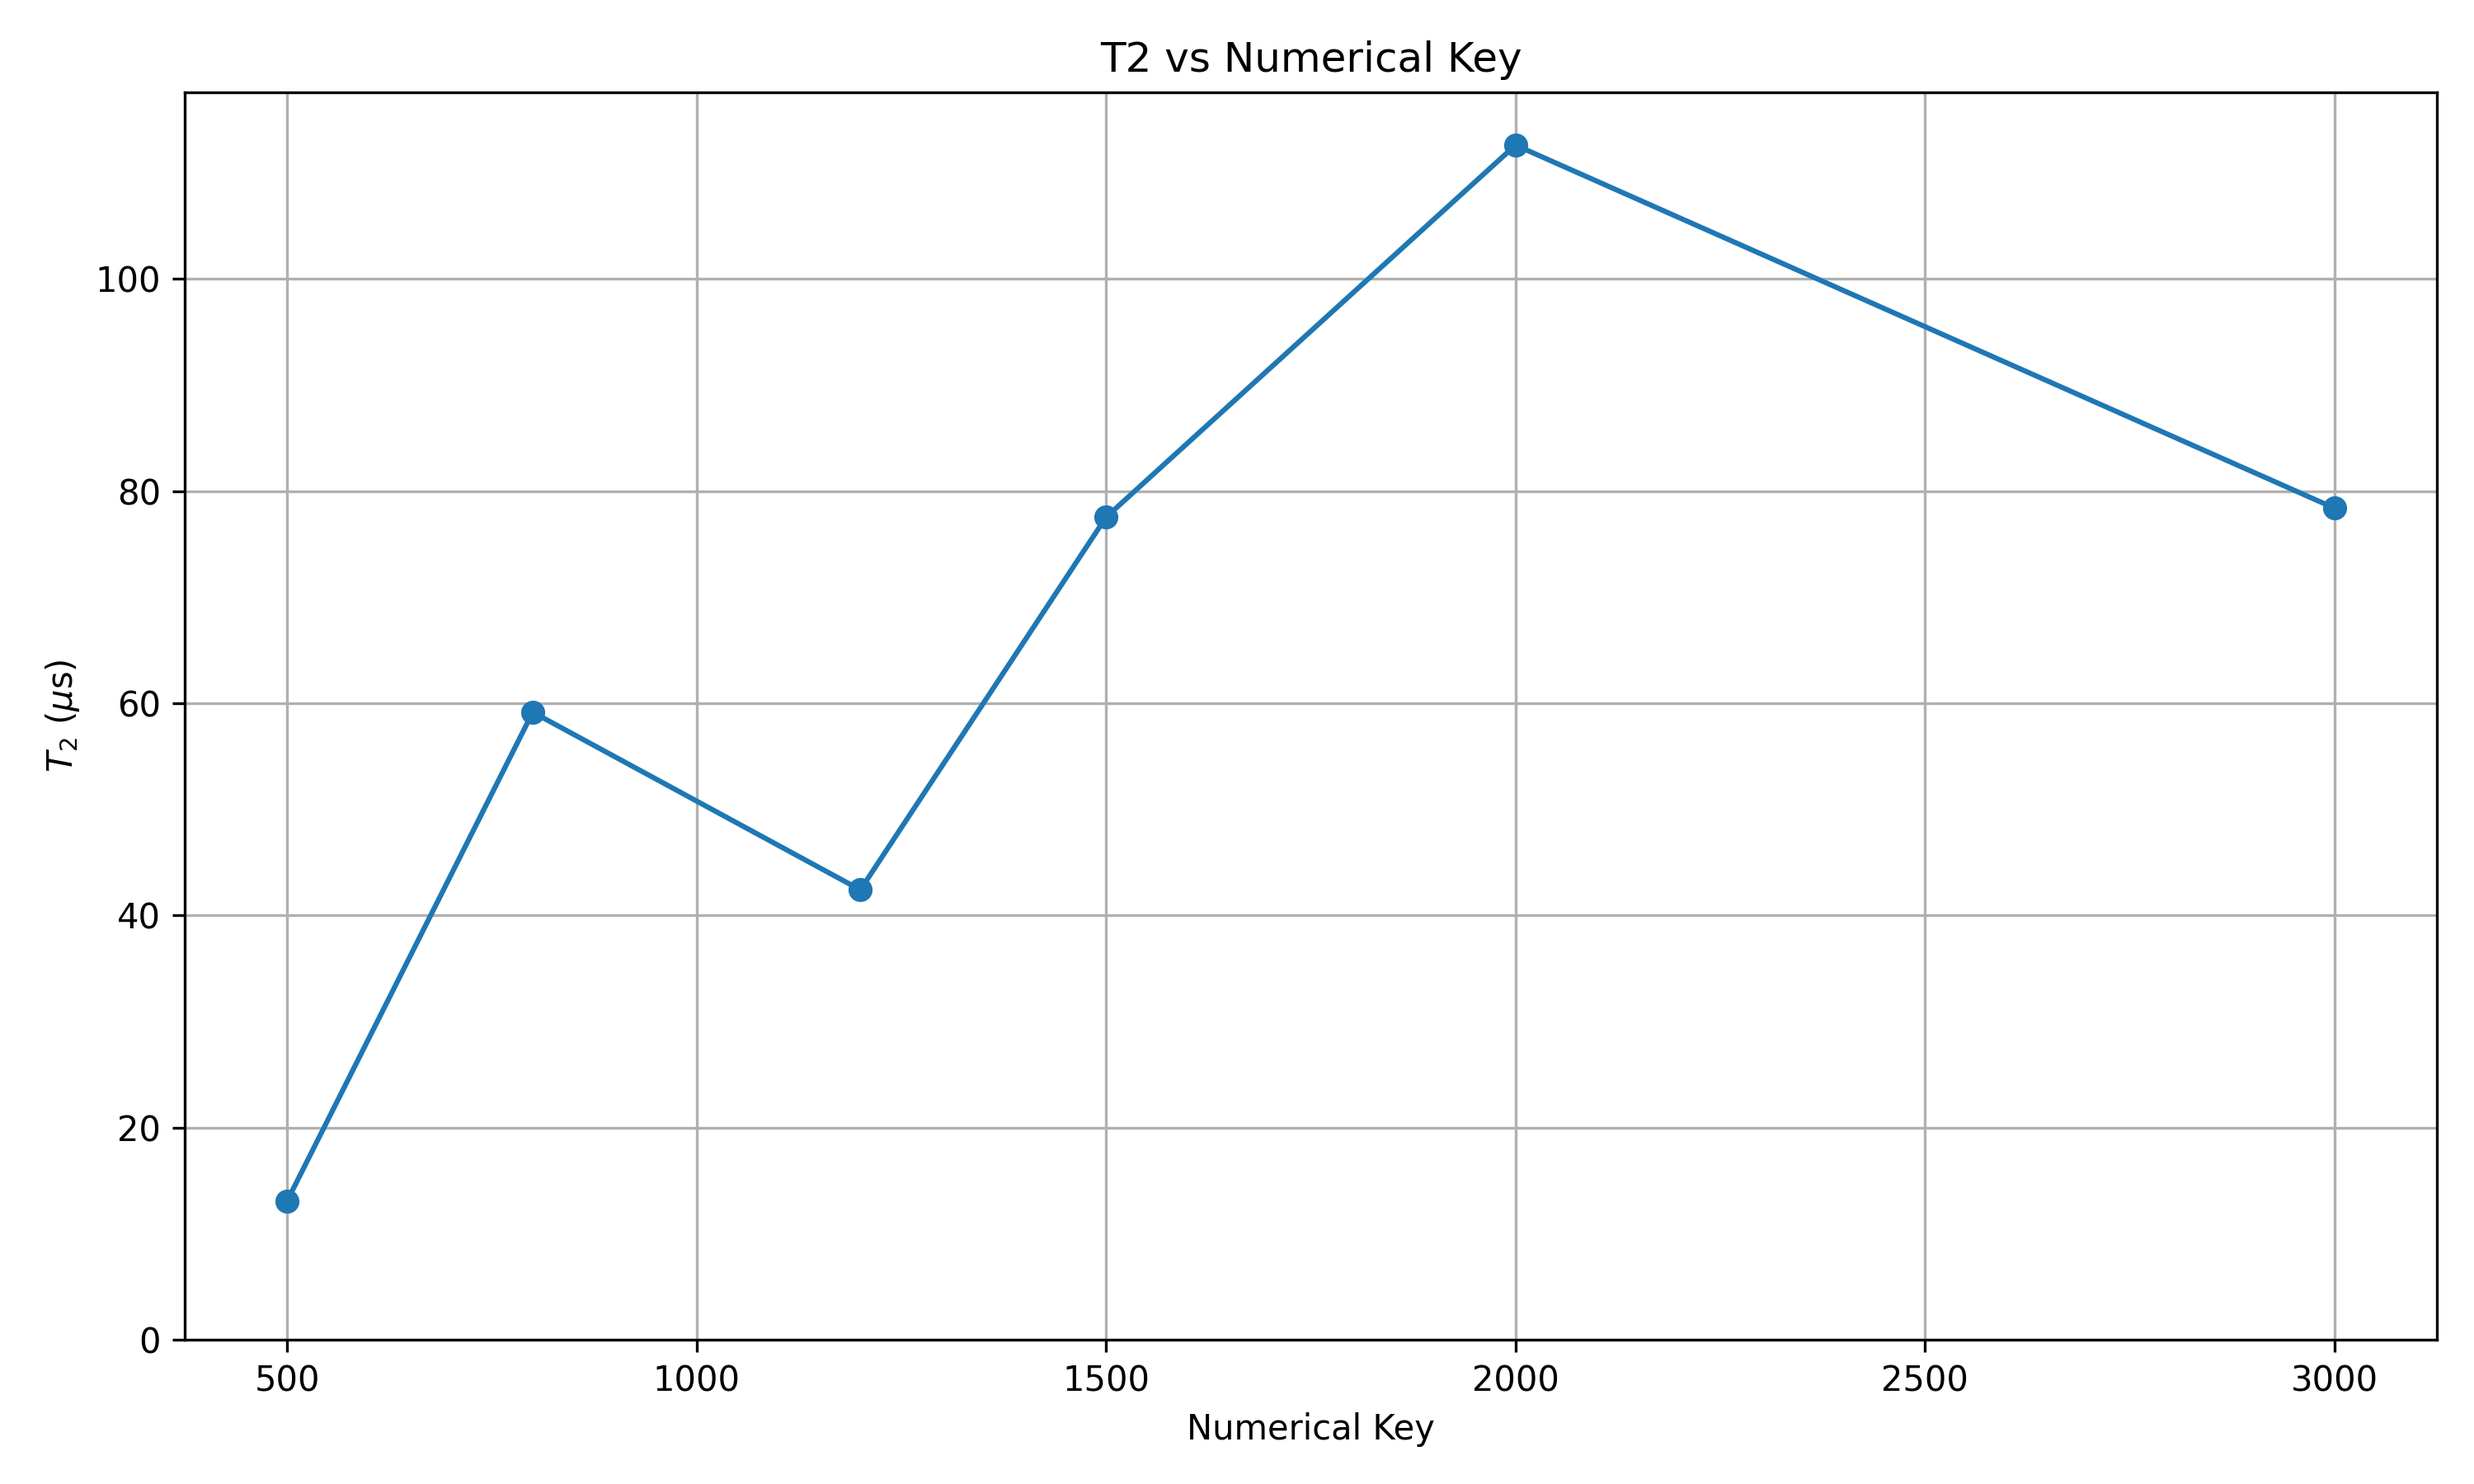
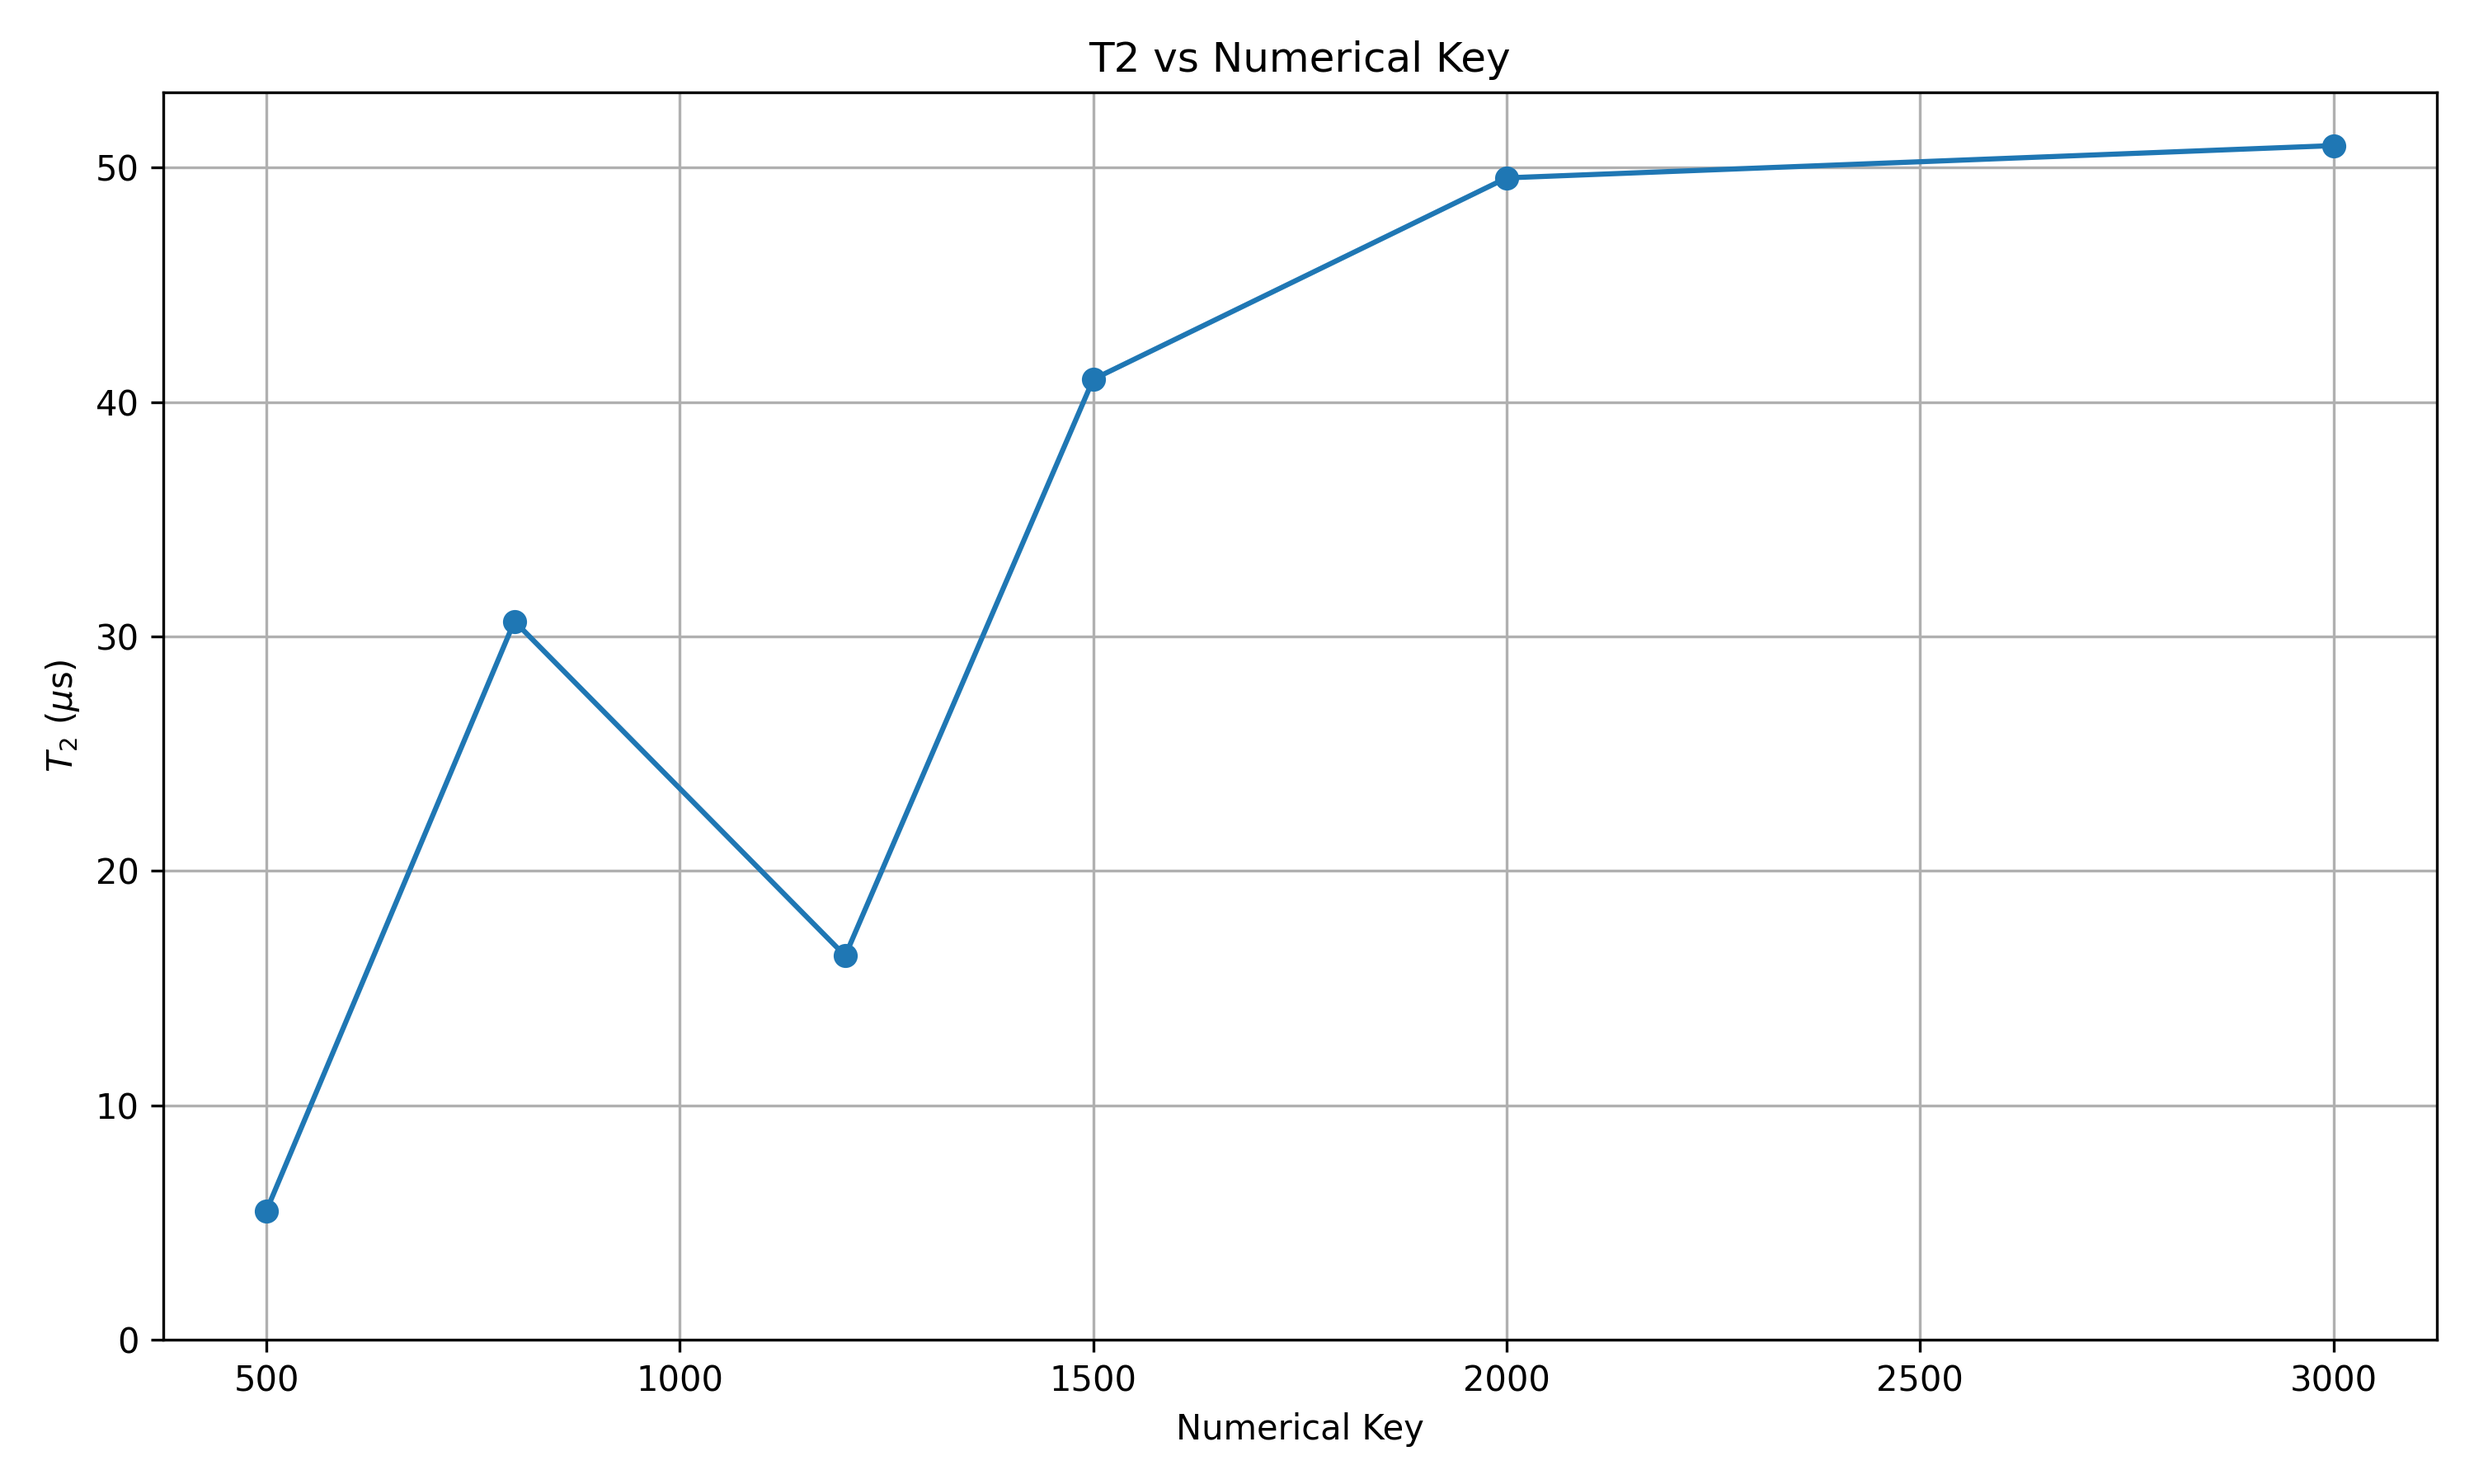
EXTREMELY GOOD graph of T2 vs B. Removed factor of 2 in plotter, it's perfect.

diff --git a/VOTPP folder/VOTPP_[n-e]-(e).py b/VOTPP folder/VOTPP_[n-e]-(e).py
@@ -137,67 +137,67 @@ nbstates_list = [128,]
 
 ###################################################################################################
 # Define the timespace
-timespace_absolute = np.linspace(0, 1, 201)
+timespace_absolute = np.linspace(0, 0.5, 201)
 
-# Creating a list of pulse sequences to cycle through
-pulse11 = pc.Pulse(axis='z', angle='2*pi/3', delay=0,
-                      bath_names=('51V',
-                                  )) # 120° pulse around x-axis applied to bath spins
-pulse12 = pc.Pulse(axis='z', angle='2*pi/3', delay=timespace_absolute/2,
-                      bath_names=('51V',
-                                  )) # 120° pulse around x-axis applied to bath spins
+# # Creating a list of pulse sequences to cycle through
+# pulse11 = pc.Pulse(axis='z', angle='2*pi/3', delay=0,
+#                       bath_names=('51V',
+#                                   )) # 120° pulse around x-axis applied to bath spins
+# pulse12 = pc.Pulse(axis='z', angle='2*pi/3', delay=timespace_absolute/2,
+#                       bath_names=('51V',
+#                                   )) # 120° pulse around x-axis applied to bath spins
 
-pulse21 = pc.Pulse(axis='z', angle='2*pi/3', delay=0,)
-pulse22 = pc.Pulse(axis='z', angle='2*pi/3', delay=timespace_absolute/2,)
+# pulse21 = pc.Pulse(axis='z', angle='2*pi/3', delay=0,)
+# pulse22 = pc.Pulse(axis='z', angle='2*pi/3', delay=timespace_absolute/2,)
 
-pulse31 = pc.Pulse(axis='z', angle='2*pi/3', delay=timespace_absolute/2,
-                      bath_names=('51V',
-                                  )) # 120° pulse around x-axis applied to bath spins
-pulse32 = pc.Pulse(axis='z', angle='2*pi/3', delay=timespace_absolute/2,
-                      bath_names=('51V',
-                                  )) # 120° pulse around x-axis applied to bath spins
+# pulse31 = pc.Pulse(axis='z', angle='2*pi/3', delay=timespace_absolute/2,
+#                       bath_names=('51V',
+#                                   )) # 120° pulse around x-axis applied to bath spins
+# pulse32 = pc.Pulse(axis='z', angle='2*pi/3', delay=timespace_absolute/2,
+#                       bath_names=('51V',
+#                                   )) # 120° pulse around x-axis applied to bath spins
 
-pulse41 = pc.Pulse(axis='z', angle='2*pi/3', delay=timespace_absolute/2,)
-pulse42 = pc.Pulse(axis='z', angle='2*pi/3', delay=timespace_absolute/2,)
+# pulse41 = pc.Pulse(axis='z', angle='2*pi/3', delay=timespace_absolute/2,)
+# pulse42 = pc.Pulse(axis='z', angle='2*pi/3', delay=timespace_absolute/2,)
 
-pulse51 = pc.Pulse(axis='z', angle='2*pi/3', delay=0,
-                        bath_names=('51V',
-                                    )) # 120° pulse around x-axis applied to bath spins
-pulse52 = pc.Pulse(axis='z', angle='2*pi/3', delay=0,
-                        bath_names=('51V',
-                                    )) # 120° pulse around x-axis applied to bath spins
+# pulse51 = pc.Pulse(axis='z', angle='2*pi/3', delay=0,
+#                         bath_names=('51V',
+#                                     )) # 120° pulse around x-axis applied to bath spins
+# pulse52 = pc.Pulse(axis='z', angle='2*pi/3', delay=0,
+#                         bath_names=('51V',
+#                                     )) # 120° pulse around x-axis applied to bath spins
 
-pulse61 = pc.Pulse(axis='z', angle='2*pi/3', delay=0)
-pulse62 = pc.Pulse(axis='z', angle='2*pi/3', delay=0)
-
-
+# pulse61 = pc.Pulse(axis='z', angle='2*pi/3', delay=0)
+# pulse62 = pc.Pulse(axis='z', angle='2*pi/3', delay=0)
 
 
 
-# pulse_central = pc.Pulse(axis='z', angle='2*pi/3', delay=None,)  # 120° pulse around x-axis applied to central spin
-pulse_bath = pc.Pulse(axis='x', angle='2*pi/3', delay=np.zeros(timespace_absolute.size),
-                      bath_names=('51V',
-                                  )) # 120° pulse around x-axis applied to bath spins
-pulse_bath2 = pc.Pulse(axis='x', angle='2*pi/3', delay=timespace_absolute/2,
-                      bath_names=('51V',
-                                  )) # 120° pulse around x-axis applied to bath spins
 
-# pulse_bath2 = pc.Pulse(axis='z', angle='pi', delay=timespace_absolute/2,)
-#                     #   bath_names=('1H', '2H',
-#                     #               '13C',
-#                     #               '14N', '15N',
-#                     #               '50V', '51V',
-#                     #               )) # 120° pulse around x-axis applied to bath spins
 
-# Define the sequence
-hahn_echo_sequence = pc.Sequence([
-                                # # pulse_central, 
-                                pulse_bath,
-                                pulse_bath2,
-                                # # pulse_bath,
-                                # # pulse_central, 
-                                # pulse_bath2,
-                                ])
+# # pulse_central = pc.Pulse(axis='z', angle='2*pi/3', delay=None,)  # 120° pulse around x-axis applied to central spin
+# pulse_bath = pc.Pulse(axis='x', angle='2*pi/3', delay=np.zeros(timespace_absolute.size),
+#                       bath_names=('51V',
+#                                   )) # 120° pulse around x-axis applied to bath spins
+# pulse_bath2 = pc.Pulse(axis='x', angle='2*pi/3', delay=timespace_absolute/2,
+#                       bath_names=('51V',
+#                                   )) # 120° pulse around x-axis applied to bath spins
+
+# # pulse_bath2 = pc.Pulse(axis='z', angle='pi', delay=timespace_absolute/2,)
+# #                     #   bath_names=('1H', '2H',
+# #                     #               '13C',
+# #                     #               '14N', '15N',
+# #                     #               '50V', '51V',
+# #                     #               )) # 120° pulse around x-axis applied to bath spins
+
+# # Define the sequence
+# hahn_echo_sequence = pc.Sequence([
+#                                 # # pulse_central, 
+#                                 pulse_bath,
+#                                 pulse_bath2,
+#                                 # # pulse_bath,
+#                                 # # pulse_central, 
+#                                 # pulse_bath2,
+#                                 ])
 
 
 hahn_echo_sequence = pc.Sequence([ 
@@ -236,15 +236,9 @@ default_simulator_parameters = { ########## These should be greater when simulat
     'pulses': hahn_echo_sequence,
 }
 
-# magnetic_field_list = [[3000,0,0]]
-# magnetic_field_list = [[500,0,0], [800,0,0], [1200,0,0], ]
-# magnetic_field_list = [[500, 0, 0,], [800, 0, 0,], [1200, 0, 0,], [1500, 0, 0,], [2000, 0, 0,], [3000, 0, 0,]]
 magnetic_field_list = [[0, 0, 500], [0, 0, 800], [0, 0, 1200], [0, 0, 1500], [0, 0, 2000], [0, 0, 3000]] # z-direction (but with rotation matrix, it's x-direction)
 # magnetic_field_list = [[0, 0, 3000]] # z-direction (but with rotation matrix, it's x-direction)
-# magnetic_field_list = [[0,500,0], [0,800,0], [0,1200,0], [0,1500,0], [0,2000,0], [0,3000,0]]
-# magnetic_field_list = [[0,500,0], [0,800,0], [0,1200,0], [0,1500,0], [0,2000,0], [0,3000,0]]
-# magnetic_field_list = [[3000,0,0], [4000,0,0], [5000,0,0], [6000,0,0]]
-# magnetic_field_list = [[3000, 0, 0]]
+
 # magnetic_field_list = [[200,0,0], [400,0,0], [600,0,0], [800,0,0], [1000,0,0], [1200,0,0], [1400,0,0], [1600,0,0], [1800,0,0], [2000,0,0], [2200,0,0], [2400,0,0], [2600,0,0], [2800,0,0], [3000,0,0]]
 #####################################################################
 # Set up runner and run the simulation
@@ -313,7 +307,7 @@ for idx, seed in enumerate(seed_list):
                         concentration_value=default_bath_parameters['concentration'],
                         # concentration_value=seed, # !!!!!!!!!!!!!!!!!!!!!!!!!!!!!!!!!!!!!!!!!!!!!!!!!!!!!!!!!!!!!!!!!!!!!!
                         changing_variable='magnetic_field', variable_values=magnetic_field_list,
-                        num_spins=2, # spin_type='nuclear',
+                        num_spins=2, #spin_type='nuclear',
                         alpha = 4, #
                         beta = 5, #
                         bath_parameters=default_bath_parameters, simulator_parameters=default_simulator_parameters, calc_parameters=default_calc_parameters,

diff --git a/VOTPP folder/VOTPP_results_and_fit_plotter.py b/VOTPP folder/VOTPP_results_and_fit_plotter.py
@@ -7,7 +7,7 @@ import os
 import pandas as pd
 
 def coherence_time_func(time, beta, T2):
-    y = np.exp(-(((2*time)/T2)**1)) # Is there a scaling issue here?
+    y = np.exp(-(((time)/T2)**1)) # Is there a scaling issue here?
     return y
 
 
